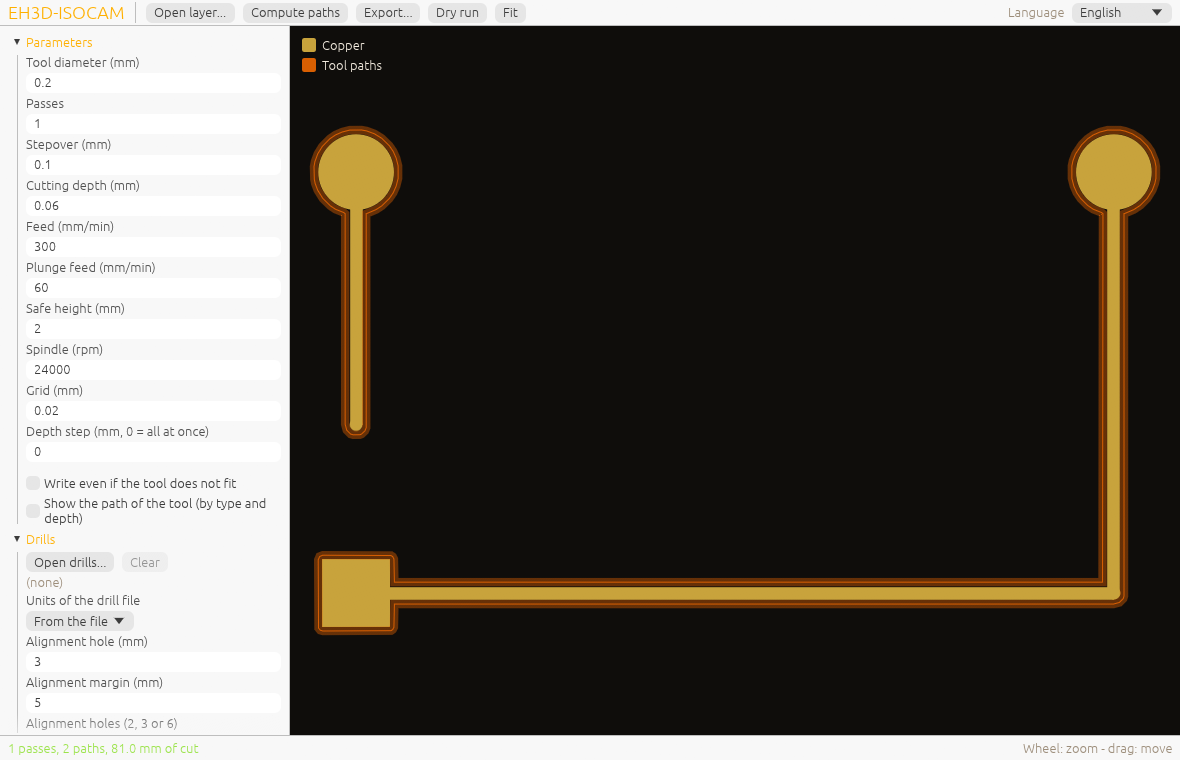
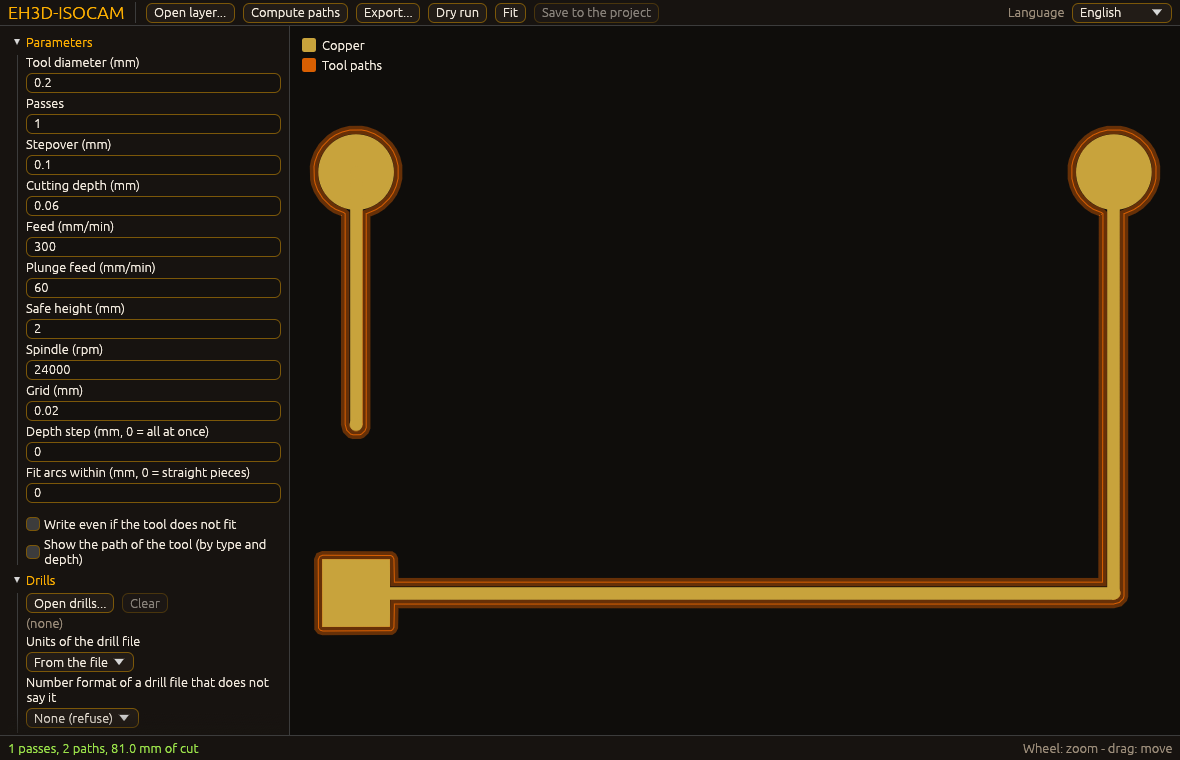
Take the picture of the window again

Changed region(s): [[0.0, 0.0, 1.0, 1.0]]

diff --git a/CHANGELOG.md b/CHANGELOG.md
@@ -4,6 +4,8 @@ All notable changes to this project are documented here.
 
 ## [Unreleased]
 
+- **The picture of the window in the README was taken again**, with the list of the number format of a drill file.
+
 - **A refused drill file asks for its format in the window:** when a drill file does not declare how its numbers are written, the window shows the formats with their explanation in the eight languages; none is marked, and cancelling leaves the file refused. A box in the drill section shows and changes the choice, and holes read with another choice do not stay. The window keeps the choice only while it is open (`drill_format` of a configuration file keeps it for the command line). 2 new tests; not tried on a machine.
 
 - **A drill file that does not declare its number format is refused until one is chosen (safety, changes what is accepted):** a file with no header, `INCH` alone (read as whole mils until now, while other programs read 2.4 inches, ten times less) or digits and zeros left to be supposed. The message says in the eight languages how to choose: `--drill-format` or `drill_format` of the configuration (`mils` gives the old reading, `inch-2.4-tz`, `inch-2.4-lz`, `metric-3.3-tz`, `metric-3.3-lz`); `--excellon-format 2.4` still counts as a choice. What a file declares always wins. The drill and routing files in whole mils that the program writes, the plain style included, now declare it with `;FILE_FORMAT=3:3` and `INCH,TZ`; the original program has not been tried with the two new lines.
